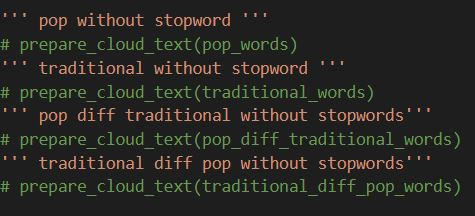
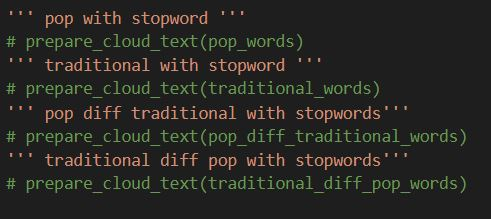
Fix name of comments

Changed region(s): [[0.0, 0.1667, 0.9726, 0.9167], [0.0, 0.0278, 0.56, 0.1389], [0.6779, 0.2778, 0.7368, 0.3056]]

diff --git a/P2/WordCloud/src/wordCloud.py b/P2/WordCloud/src/wordCloud.py
@@ -97,13 +97,13 @@ pop_words_copy = pop_words
 traditional_words_copy = traditional_words
 traditional_diff_pop_words = diff_words(traditional_words_copy, pop_words_copy)
 
-''' pop without stopword '''
+''' pop with stopword '''
 # prepare_cloud_text(pop_words)
-''' traditional without stopword '''
+''' traditional with stopword '''
 # prepare_cloud_text(traditional_words)
-''' pop diff traditional without stopwords'''
+''' pop diff traditional with stopwords'''
 # prepare_cloud_text(pop_diff_traditional_words)
-''' traditional diff pop without stopwords'''
+''' traditional diff pop with stopwords'''
 # prepare_cloud_text(traditional_diff_pop_words)
 
 
